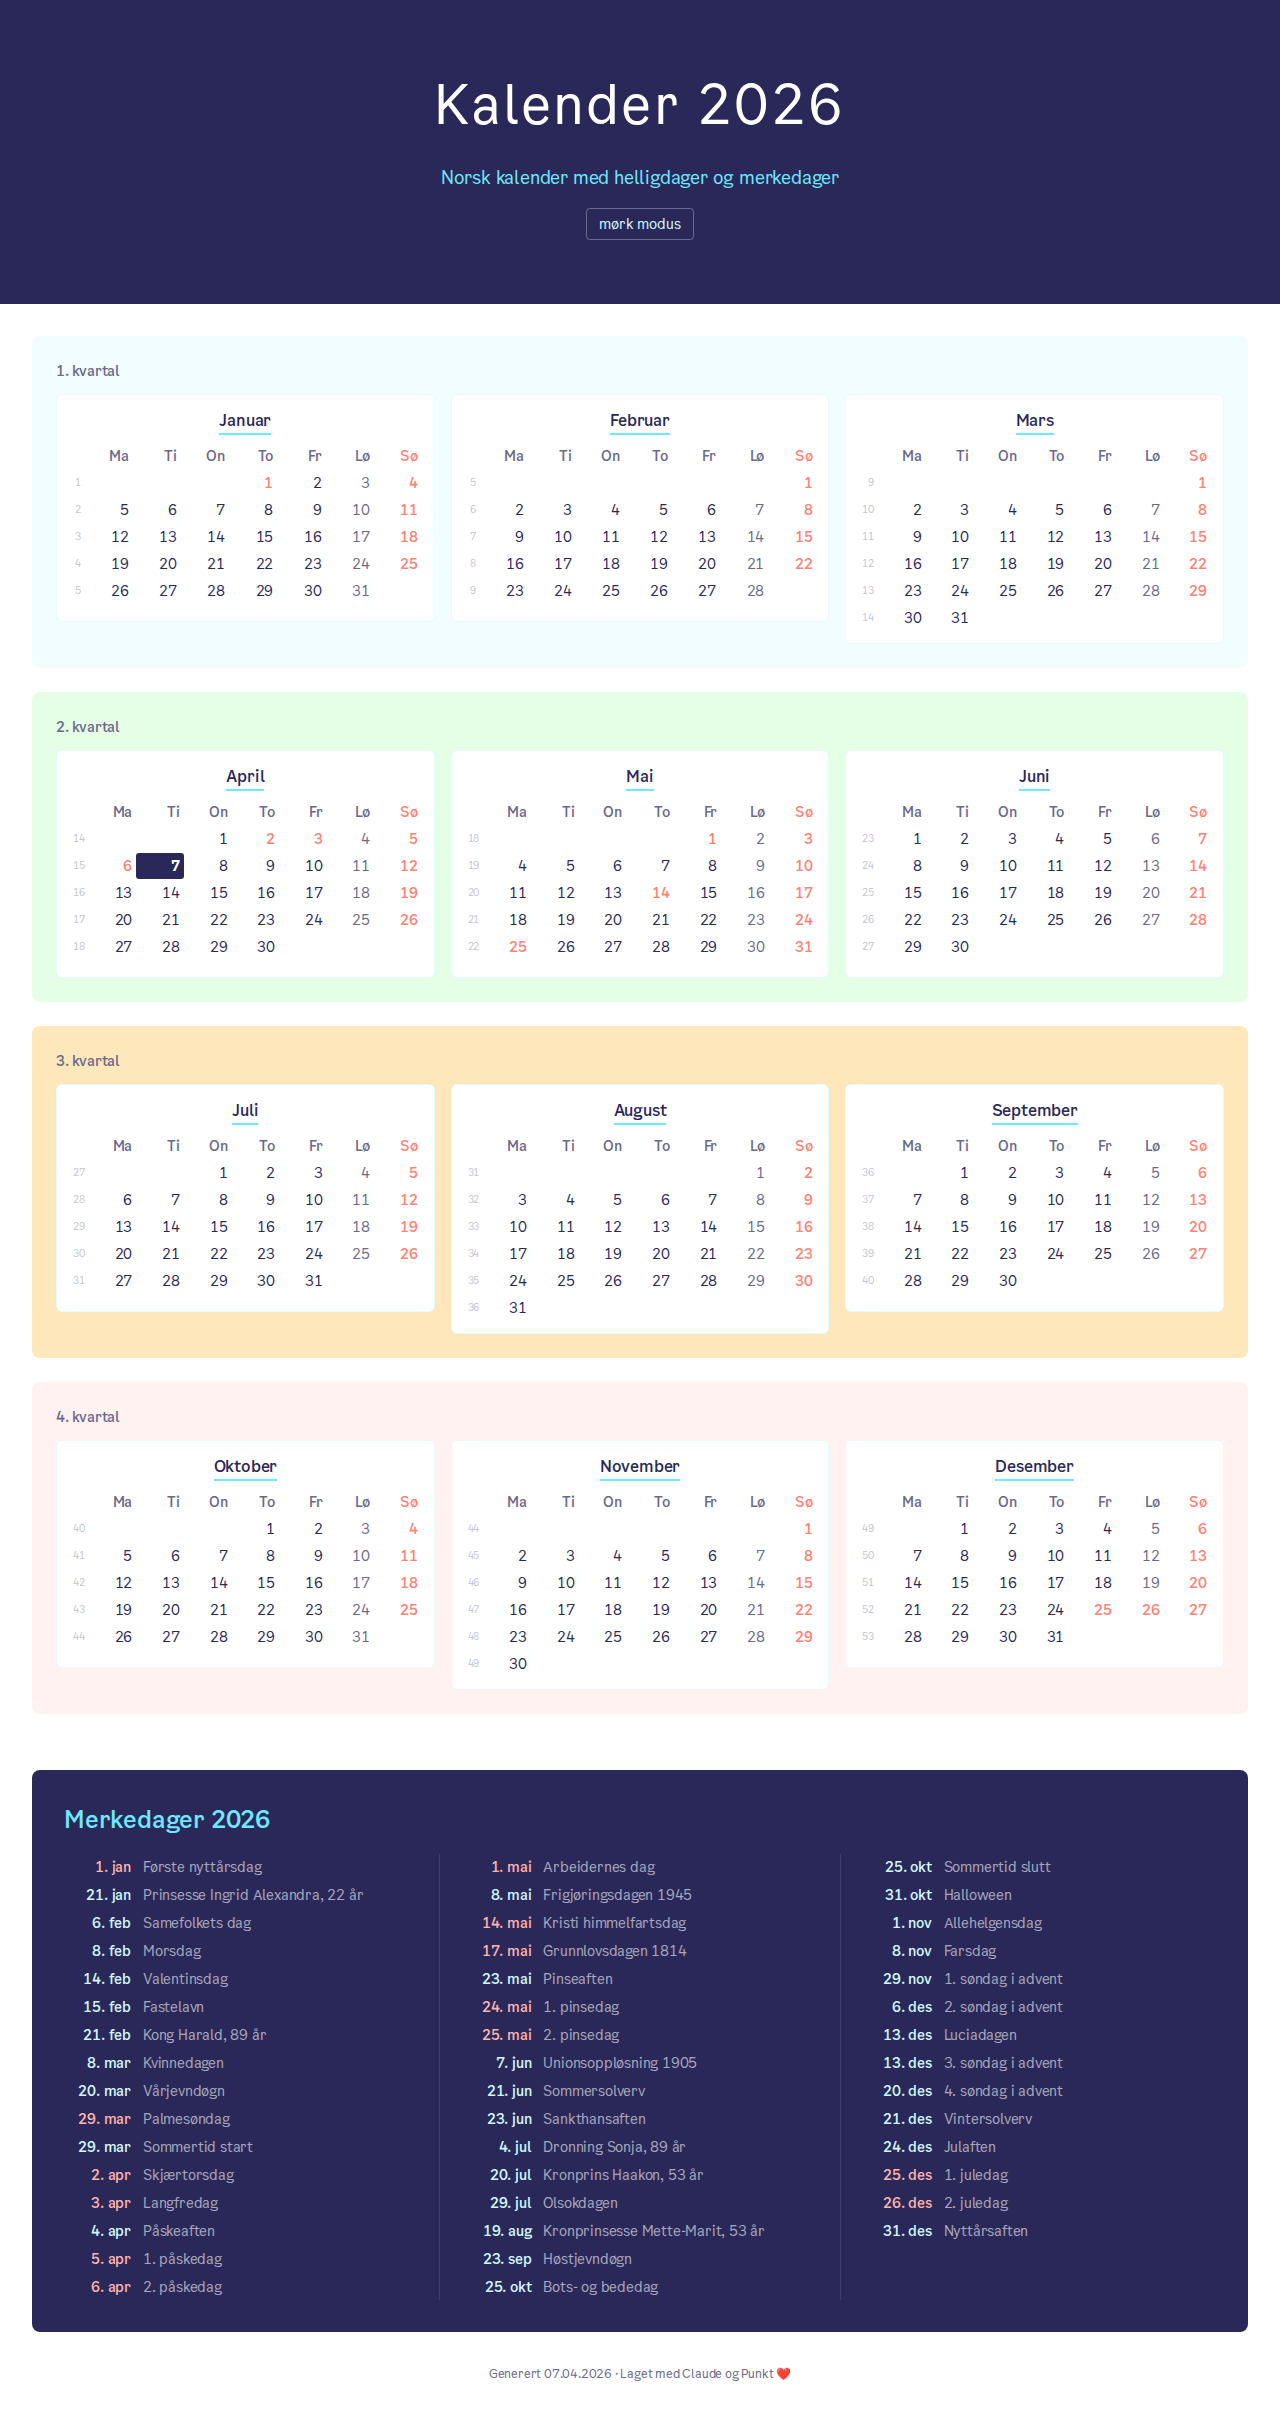
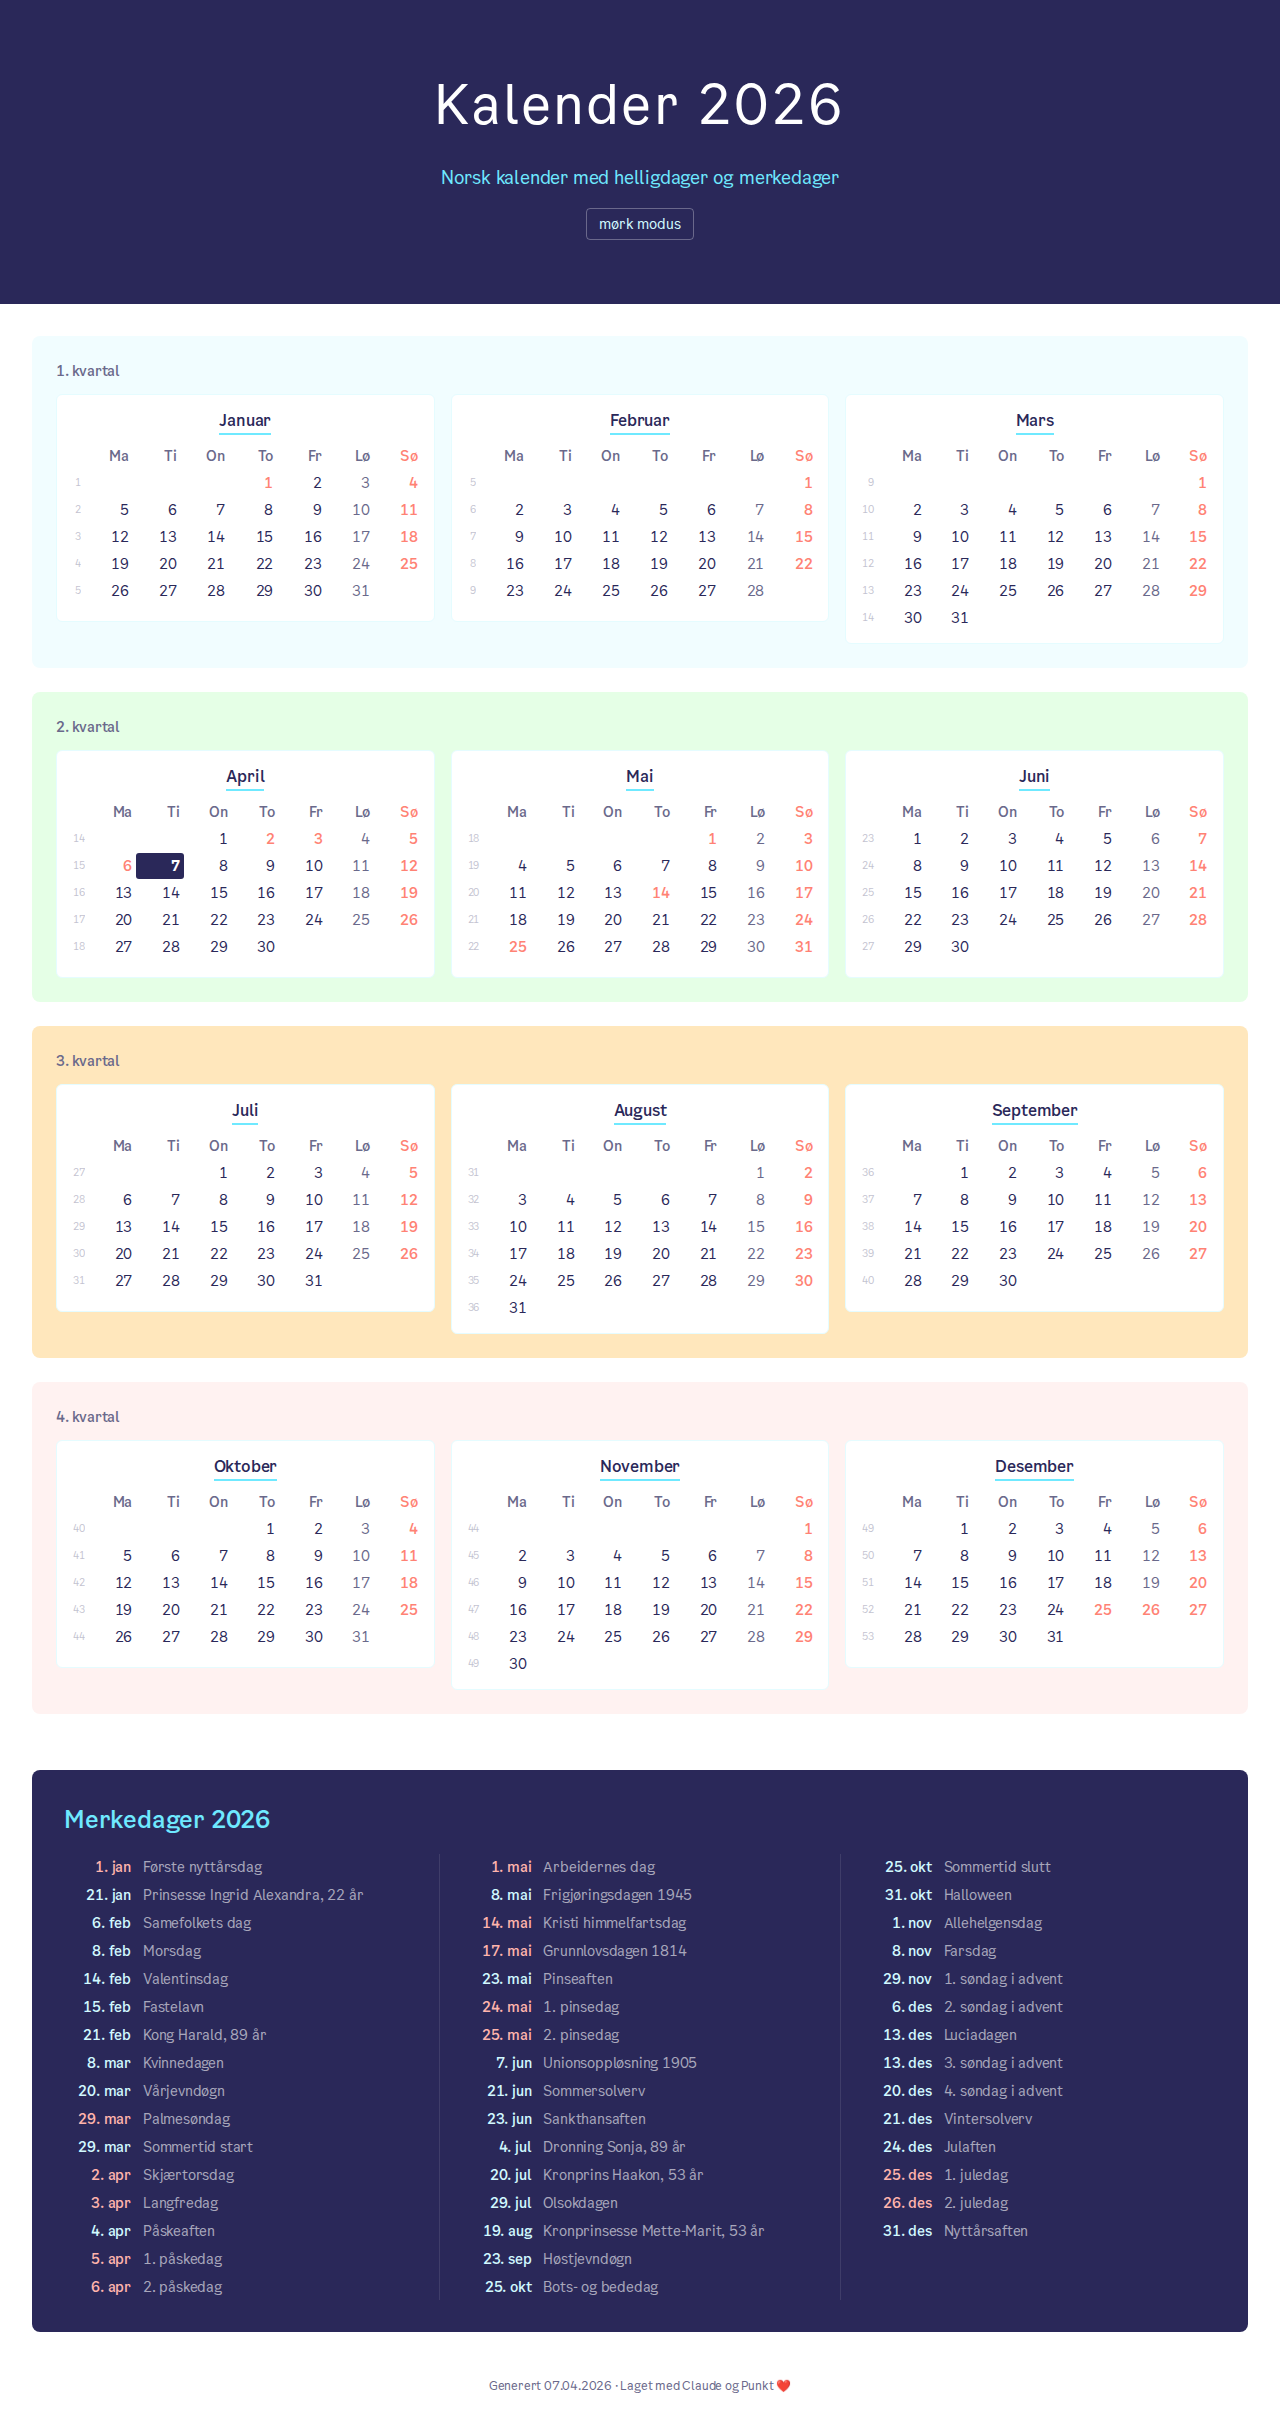
Fix notable dates width and add bookmarkable dark mode (#2)
Wrap notable dates section in pkt-container so it matches the
calendar grid width on wide screens. Dark mode is now driven by
URL hash (#dark / #light) so it can be bookmarked and shared.

diff --git a/templates/calendar.html b/templates/calendar.html
@@ -331,7 +331,8 @@
       </section>
 
       {# ── Notable dates ─────────────────────────────── #}
-      <section class="notable-section p-size-24 p-size-32--tablet-up mx-size-16 mx-size-32--tablet-up mb-size-32">
+      <section class="pkt-container pb-size-32">
+        <div class="notable-section p-size-24 p-size-32--tablet-up">
         <h2 class="notable-heading pkt-txt-20-medium pkt-txt-24-medium--tablet-up mb-size-16">Merkedager {{ year }}</h2>
         <div class="notable-columns pkt-txt-14">
           {% for col in notable_columns %}
@@ -348,6 +349,7 @@
           </div>
           {% endfor %}
         </div>
+        </div>
       </section>
 
       <div class="pkt-txt-center mb-size-32">
@@ -359,17 +361,30 @@
   </div>
 
   <script>
-    function toggleDark() {
-      const body = document.body;
-      const isDark = body.getAttribute('data-mode') === 'dark';
-      if (isDark) {
-        body.removeAttribute('data-mode');
-        document.getElementById('theme-toggle').textContent = 'mørk modus';
-      } else {
-        body.setAttribute('data-mode', 'dark');
+    function applyTheme(dark) {
+      if (dark) {
+        document.body.setAttribute('data-mode', 'dark');
         document.getElementById('theme-toggle').textContent = 'lys modus';
+      } else {
+        document.body.removeAttribute('data-mode');
+        document.getElementById('theme-toggle').textContent = 'mørk modus';
       }
     }
+
+    function toggleDark() {
+      var isDark = document.body.getAttribute('data-mode') === 'dark';
+      location.hash = isDark ? 'light' : 'dark';
+    }
+
+    function readHash() {
+      var hash = location.hash.replace('#', '');
+      if (hash === 'dark' || hash === 'light') {
+        applyTheme(hash === 'dark');
+      }
+    }
+
+    readHash();
+    window.addEventListener('hashchange', readHash);
   </script>
 </body>
 </html>
